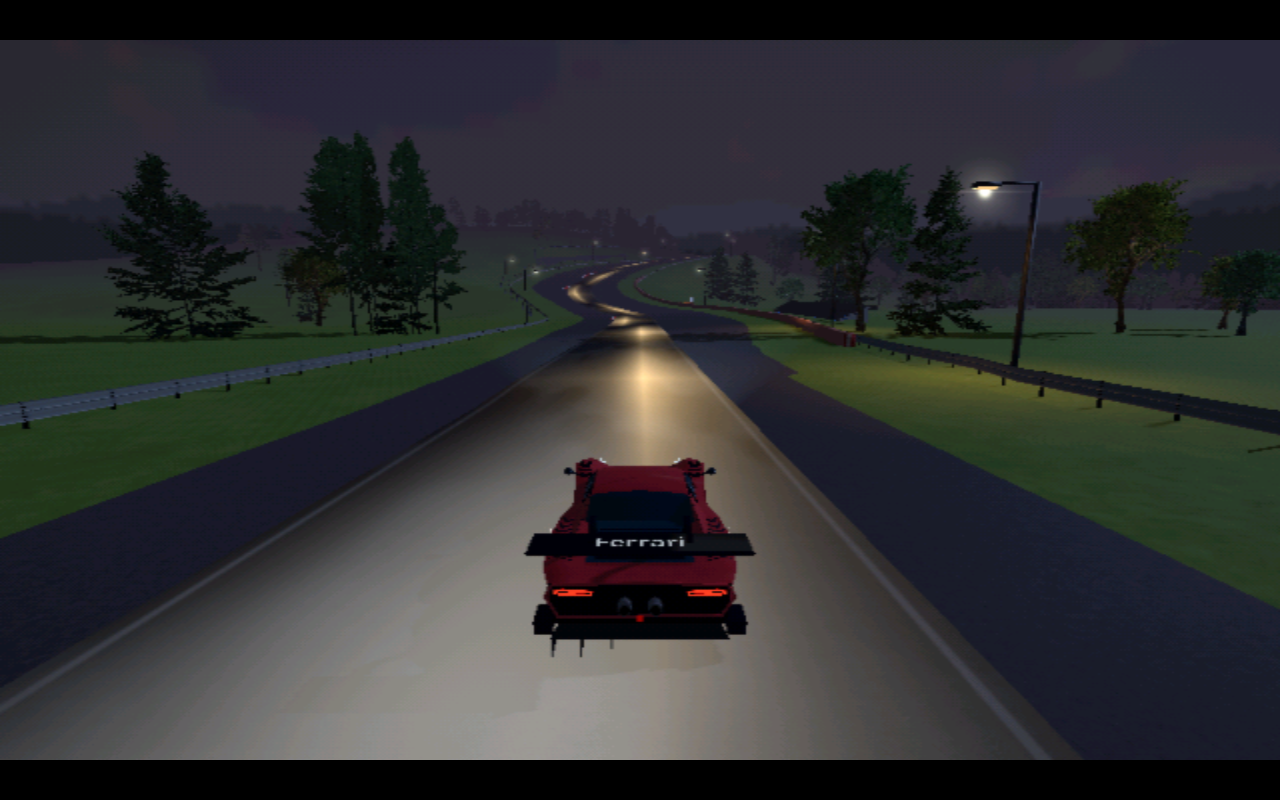
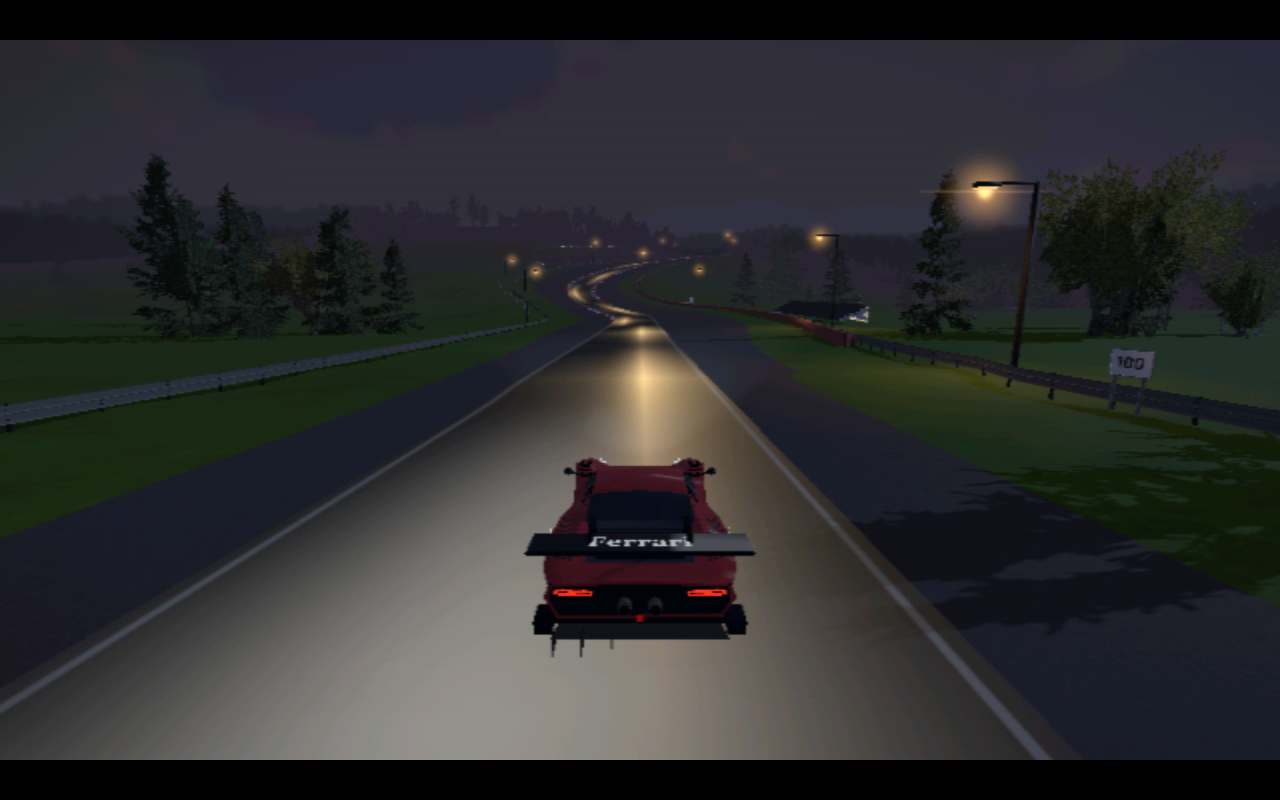
Finish Look-9: merge main, verify, night shots

diff --git a/godot/docs/rebuild/QUEUE.md b/godot/docs/rebuild/QUEUE.md
@@ -51,12 +51,12 @@ Models: **Claude** (Opus 5.5: physics, numerics, reviews), **Sol** (GPT-6 Sol: a
 | Look-4 | Dress proving ground, Spa and Nordschleife per ART-DIRECTION.md: crowd cards, fences, painted tyre walls, billboards, marshal posts, lamp placement support for Look-2 | Gemini (content only), Claude review | Look-1 | done (reviewed by Claude 2026-09-24) | rb/look-4-dressing |
 | Look-5 | Scenery kit and walls in PS2 materials (armco, tyre and concrete textures from assets/ps2; crowd cards; tree cards) | Claude | Look-1 | open | |
 | Look-7 | Armco rails on posts: replace only kind 0 visible mesh with double/triple W rails and posts; preserve collision | Luna | Look-5 | review: Claude | rb/look-7-armco |
-| Look-9 | NFSU nights: wet-road specular streaks, teal/blue-vs-amber colour tuned against NFSU frames, glowing trackside structures (no black void), speed blur | Sonnet | | claimed: Sonnet | rb/look-9-nights |
+| Look-9 | NFSU nights: wet-road specular streaks, teal/blue-vs-amber colour tuned against NFSU frames, glowing trackside structures (no black void), speed blur | Sonnet | | done (reviewed; merged) | rb/look-9-nights |
 | Look-0 | Art bible and reference board: godot/docs/art/reference, extended track_screenshots.gd capture/compare set, godot/docs/art/baseline, rewritten ART-DIRECTION.md | Sonnet | | done (PR #32, reviewed with fixes) | rb/look-0-art-bible; read "DONE Look-0" |
 | Look-0-refs | Finish the Look-0 reference board: mobygames.com/gamefaqs.gamespot.com block non-browser requests (Cloudflare), and the Wayback Machine workaround went offline mid-session ("Internet Archive services are temporarily offline") before NFS Underground night shots, a confirmed-Nordschleife GT4 shot, Circuit de la Sarthe (GT4 has no Spa), and any close-up asphalt/kerb/armco texture were reached | owner | Look-0 | done (completed in the Look-0 review, 2026-09-24) | see godot/docs/art/reference/README.md "Reproducing this board" |
 | Look-tracks | Spa and Nordschleife daylight look outside the Look-5 kit: forest cache bug, terrain grass, haze and view distance, road/runoff grade, forest density | Claude (owner-assigned) | Look-1 | review: Sol | rb/look-tracks; read "DONE Look-tracks" |
 | Look-6 | Enclosure (ART-DIRECTION gaps 3, 4, 5, 8): photographic mixed-species tree cards, distant forested-hill silhouette (day and night), day fog to about 1-1.2 km | Claude (Sonnet 5, owner-assigned) | Look-0 | done (PR #39, reviewed) | rb/look-6-enclosure; read "DONE Look-6" |
-| Look-9 | NFSU nights: wet-road specular streaks, teal/blue-vs-amber colour tuned against NFSU frames, glowing trackside structures (no black void), speed blur | Sonnet | | claimed: Sonnet | rb/look-9-nights; not merged, gates/features verification left for a follow-up session (see REBUILD-LOG "PAUSED Look-9") |
+| Look-9 | NFSU nights: wet-road specular streaks, teal/blue-vs-amber colour tuned against NFSU frames, glowing trackside structures (no black void), speed blur | Sonnet | | done (reviewed; merged) | rb/look-9-nights; not merged, gates/features verification left for a follow-up session (see REBUILD-LOG "PAUSED Look-9") |
 | Look-10 | Forest floor and roadside vegetation: undergrowth cards, 3+ deciduous species, Nordschleife hedges/verge grass | Sonnet | Look-6 | done (reviewed; merged with fix) | rb/look-10-undergrowth; implementation complete and pushed, gates/screenshots/DONE entry/PR left for a follow-up session (see REBUILD-LOG "PAUSED Look-10") |
 | P5-04 | Owner playtest of the proving ground in the real game; record lap baselines | owner | P4-core, P4-vis | open | |
 | CI | GitHub Actions: headless tools/run_gates.ps1 equivalent on Linux on every push (suites, not features) | Gemini | | review: Sol | rb/CI; 39/39 gates pass locally, .github/workflows/gates.yml |

diff --git a/godot/docs/REBUILD-LOG.md b/godot/docs/REBUILD-LOG.md
@@ -2285,3 +2285,10 @@ under CPU contention, not a game error). Also owed: the DONE log entry and QUEUE
 → `review: Claude`), and the PR. Re-run both checks alone (not parallel with other Godot processes —
 that contention is likely why `--features` timed out), read stderr, then write DONE and open the PR
 from `rb/look-9-nights` (already pushed through commit `768c9db`).
+
+## 2026-09-25  REVIEW Look-9 (Sonnet): finished and accepted  (Claude Opus 5.5)
+Sonnet paused this with verification owed. Finished here:
+- **Merge:** main merged in; the ART-DIRECTION gap rows now take 4-5 from Look-10 and 6-7 from Look-9.
+- **Gates:** `run_gates.ps1 -All -Features` 37/37. The windowed features check passes 77/0; the earlier timeouts were CPU contention during bakes.
+- **Night shots** recaptured on the merged tree (`docs/rebuild/screenshots/look-9/`): wet headlight streak, sodium halos, lit structures, and a sky that is never black.
+- **Cost:** a full Spa lap sweep at night averages 0.96 ms per frame, worst 1.74 ms.
